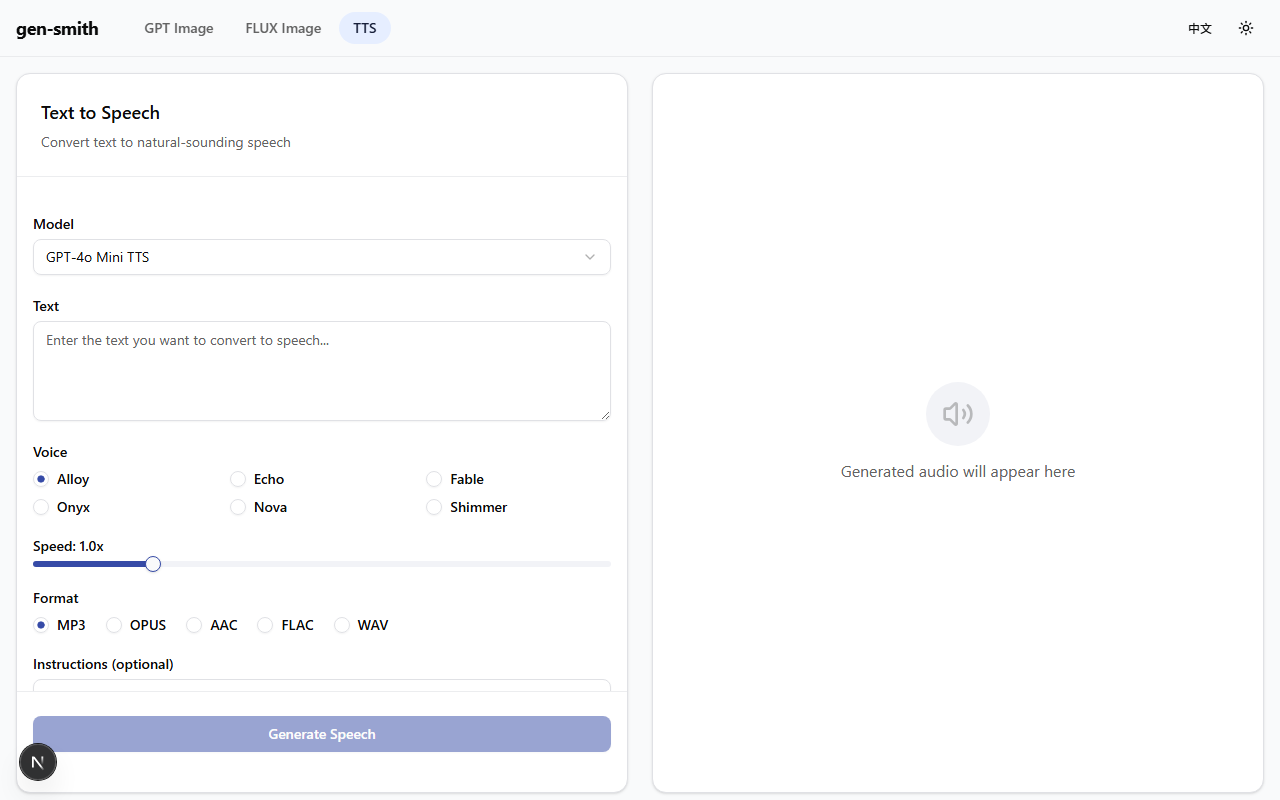
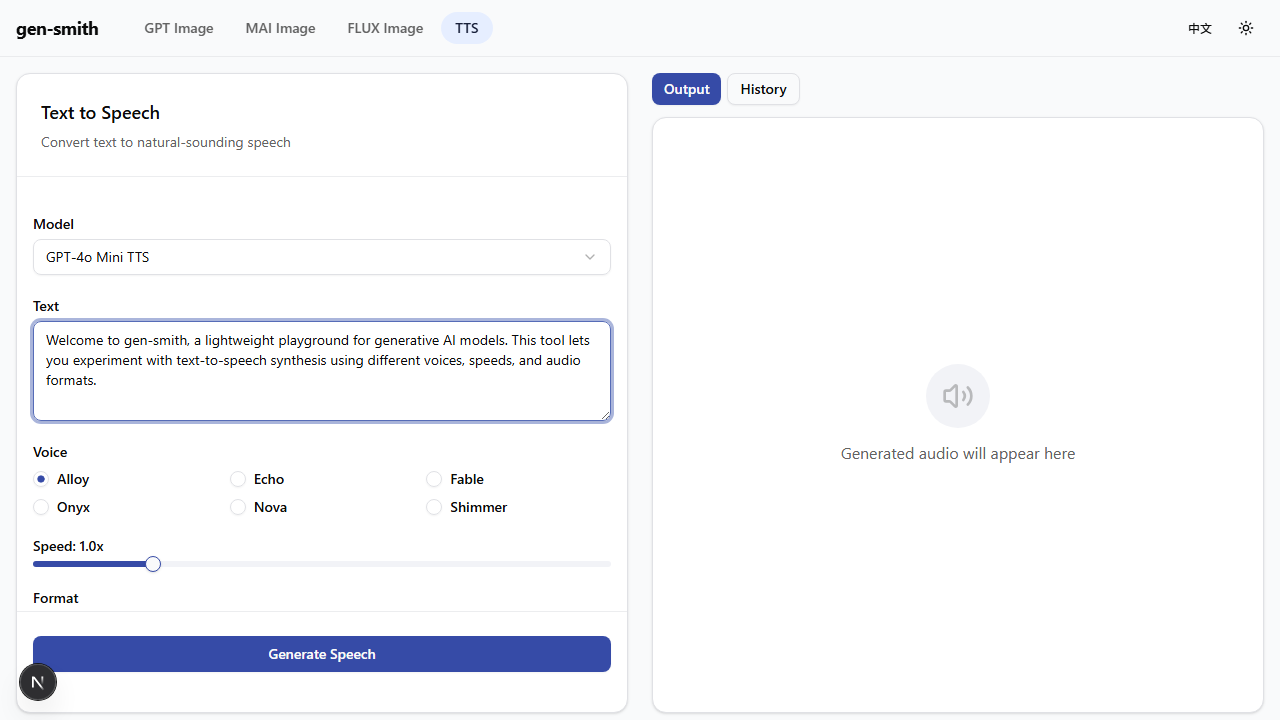
Update README with MAI Image playground and refresh screenshots
Add MAI-Image-2 playground documentation to both English and Chinese
READMEs including features, screenshot, supported models table,
environment variables, and project structure. Update TTS screenshot
to show sample input text instead of empty form.

diff --git a/README.md b/README.md
@@ -7,6 +7,7 @@ A lightweight playground for generative AI models — connect to Azure AI Foundr
 ## Features
 
 - **GPT Image playground** — Generate images with gpt-image-1.5, gpt-image-1, and gpt-image-1-mini with full parameter control (size, quality, background, format, moderation)
+- **MAI Image playground** — Generate images with MAI-Image-2 via Azure AI Foundry with configurable dimensions (square, landscape, portrait, small)
 - **FLUX Image playground** — Generate images with FLUX.2-pro and FLUX.2-flex via Azure AI Foundry serverless endpoints
 - **Text-to-Speech playground** — Convert text to speech with gpt-4o-mini-tts, 6 voice options, speed control, and style instructions
 - **Two-column layout** — Configuration form on the left, output on the right
@@ -23,6 +24,10 @@ A lightweight playground for generative AI models — connect to Azure AI Foundr
 
 ![GPT Image Playground](docs/screenshots/gpt-image.png)
 
+### MAI Image Playground
+
+![MAI Image Playground](docs/screenshots/mai-image.png)
+
 ### FLUX Image Playground
 
 ![FLUX Image Playground](docs/screenshots/flux-image.png)
@@ -36,6 +41,7 @@ A lightweight playground for generative AI models — connect to Azure AI Foundr
 | Category  | Page       | Models                                        | API Type                     |
 |-----------|------------|-----------------------------------------------|------------------------------|
 | Image Gen | GPT Image  | gpt-image-1.5, gpt-image-1, gpt-image-1-mini | OpenAI SDK (images/generations) |
+| Image Gen | MAI Image  | MAI-Image-2                                   | Azure AI Foundry serverless  |
 | Image Gen | FLUX Image | FLUX.2-pro, FLUX.2-flex                       | Azure AI Foundry serverless  |
 | Audio Gen | TTS        | gpt-4o-mini-tts                               | Azure Cognitive Services     |
 
@@ -143,6 +149,10 @@ Each model family is configured with a `GEN_SMITH_<FAMILY>_` prefix. Set the `_E
 | `GEN_SMITH_GPT_IMAGE_CLIENT_ID` | Client ID for managed identity |
 | `GEN_SMITH_GPT_IMAGE_DEPLOYMENTS` | Comma-separated deployment names (default: `gpt-image-1`) |
 | `GEN_SMITH_GPT_IMAGE_API_VERSION` | API version (default: `2024-10-21`) |
+| `GEN_SMITH_MAI_IMAGE_ENDPOINT` | Azure AI Foundry endpoint |
+| `GEN_SMITH_MAI_IMAGE_API_KEY` | API key |
+| `GEN_SMITH_MAI_IMAGE_AUTH_TYPE` | `apiKey` (default), `azureCli`, or `managedIdentity` |
+| `GEN_SMITH_MAI_IMAGE_DEPLOYMENTS` | Comma-separated deployment names (default: `MAI-Image-2`) |
 | `GEN_SMITH_FLUX_IMAGE_ENDPOINT` | Azure AI Foundry endpoint |
 | `GEN_SMITH_FLUX_IMAGE_API_KEY` | API key |
 | `GEN_SMITH_FLUX_IMAGE_DEPLOYMENTS` | Comma-separated (default: `FLUX.2-pro:flux-2-pro`) |
@@ -164,19 +174,21 @@ docker run -p 3000:3000 -v ./config.json:/app/config.json ghcr.io/1w2w3y/gen-smi
 src/
   app/
     image/gpt/        GPT Image playground page
+    image/mai/        MAI Image playground page
     image/flux/        FLUX Image playground page
     audio/tts/         Text-to-Speech playground page
     api/
       image/generate/  GPT Image API route (OpenAI SDK)
+      image/mai/       MAI Image API route (direct REST)
       image/flux/      FLUX Image API route (direct REST)
       audio/tts/       TTS API route (direct REST)
       config/          Sanitized config endpoint
   components/
-    image/             GenerationForm, FluxGenerationForm, ImageOutput
+    image/             GenerationForm, MaiImageGenerationForm, FluxGenerationForm, ImageOutput
     audio/             TTSForm, AudioOutput
     layout/            Navbar, ThemeProvider, LanguageProvider
     ui/                shadcn/ui primitives
-  hooks/               useGenerateImage, useGenerateFluxImage, useGenerateSpeech
+  hooks/               useGenerateImage, useGenerateMaiImage, useGenerateFluxImage, useGenerateSpeech
   lib/                 config loader, auth helper, utilities
   types/               TypeScript type definitions
 config.example.json    Template configuration (committed)

diff --git a/README.zh.md b/README.zh.md
@@ -7,6 +7,7 @@
 ## 功能特性
 
 - **GPT 图像试验场** —— 使用 gpt-image-1.5、gpt-image-1 和 gpt-image-1-mini 生成图像，支持完整的参数控制（尺寸、质量、背景、格式、内容审核）
+- **MAI 图像试验场** —— 通过 Azure AI Foundry 使用 MAI-Image-2 生成图像，支持可配置尺寸（正方形、横向、纵向、小尺寸）
 - **FLUX 图像试验场** —— 通过 Azure AI Foundry 无服务器端点，使用 FLUX.2-pro 和 FLUX.2-flex 生成图像
 - **文字转语音试验场** —— 使用 gpt-4o-mini-tts 将文字转换为语音，提供 6 种声音选择、语速控制和风格指令
 - **双栏布局** —— 左侧配置表单，右侧输出结果
@@ -23,6 +24,10 @@
 
 ![GPT 图像试验场](docs/screenshots/gpt-image.png)
 
+### MAI 图像试验场
+
+![MAI 图像试验场](docs/screenshots/mai-image.png)
+
 ### FLUX 图像试验场
 
 ![FLUX 图像试验场](docs/screenshots/flux-image.png)
@@ -36,6 +41,7 @@
 | 类别     | 页面       | 模型                                          | API 类型                     |
 |----------|------------|-----------------------------------------------|------------------------------|
 | 图像生成 | GPT Image  | gpt-image-1.5, gpt-image-1, gpt-image-1-mini | OpenAI SDK (images/generations) |
+| 图像生成 | MAI Image  | MAI-Image-2                                   | Azure AI Foundry 无服务器    |
 | 图像生成 | FLUX Image | FLUX.2-pro, FLUX.2-flex                       | Azure AI Foundry 无服务器    |
 | 音频生成 | TTS        | gpt-4o-mini-tts                               | Azure 认知服务               |
 
@@ -143,6 +149,10 @@ docker run -p 3000:3000 \
 | `GEN_SMITH_GPT_IMAGE_CLIENT_ID` | 托管标识的客户端 ID |
 | `GEN_SMITH_GPT_IMAGE_DEPLOYMENTS` | 逗号分隔的部署名称（默认：`gpt-image-1`） |
 | `GEN_SMITH_GPT_IMAGE_API_VERSION` | API 版本（默认：`2024-10-21`） |
+| `GEN_SMITH_MAI_IMAGE_ENDPOINT` | Azure AI Foundry 端点 |
+| `GEN_SMITH_MAI_IMAGE_API_KEY` | API 密钥 |
+| `GEN_SMITH_MAI_IMAGE_AUTH_TYPE` | `apiKey`（默认）、`azureCli` 或 `managedIdentity` |
+| `GEN_SMITH_MAI_IMAGE_DEPLOYMENTS` | 逗号分隔的部署名称（默认：`MAI-Image-2`） |
 | `GEN_SMITH_FLUX_IMAGE_ENDPOINT` | Azure AI Foundry 端点 |
 | `GEN_SMITH_FLUX_IMAGE_API_KEY` | API 密钥 |
 | `GEN_SMITH_FLUX_IMAGE_DEPLOYMENTS` | 逗号分隔（默认：`FLUX.2-pro:flux-2-pro`） |
@@ -164,19 +174,21 @@ docker run -p 3000:3000 -v ./config.json:/app/config.json ghcr.io/1w2w3y/gen-smi
 src/
   app/
     image/gpt/        GPT 图像试验场页面
+    image/mai/        MAI 图像试验场页面
     image/flux/        FLUX 图像试验场页面
     audio/tts/         文字转语音试验场页面
     api/
       image/generate/  GPT 图像 API 路由（OpenAI SDK）
+      image/mai/       MAI 图像 API 路由（直接 REST）
       image/flux/      FLUX 图像 API 路由（直接 REST）
       audio/tts/       TTS API 路由（直接 REST）
       config/          脱敏配置端点
   components/
-    image/             GenerationForm, FluxGenerationForm, ImageOutput
+    image/             GenerationForm, MaiImageGenerationForm, FluxGenerationForm, ImageOutput
     audio/             TTSForm, AudioOutput
     layout/            Navbar, ThemeProvider, LanguageProvider
     ui/                shadcn/ui 基础组件
-  hooks/               useGenerateImage, useGenerateFluxImage, useGenerateSpeech
+  hooks/               useGenerateImage, useGenerateMaiImage, useGenerateFluxImage, useGenerateSpeech
   lib/                 配置加载器、认证辅助工具、通用工具
   types/               TypeScript 类型定义
 config.example.json    模板配置（已提交）
